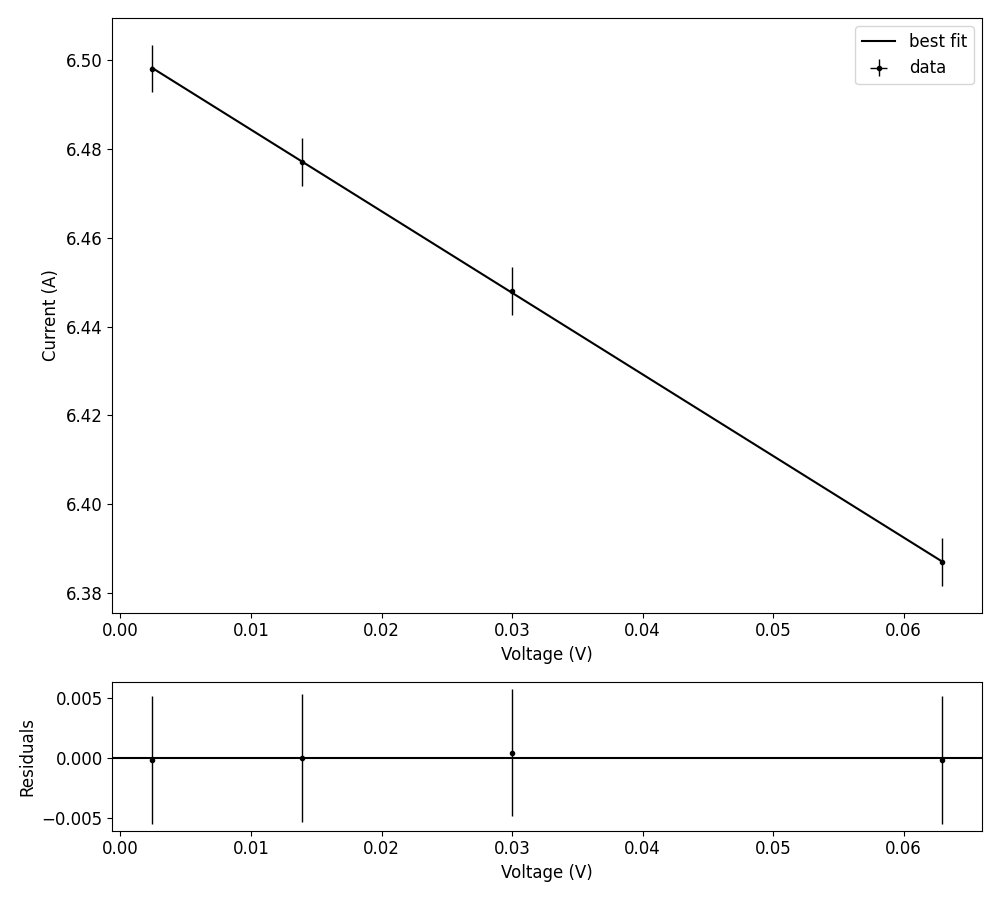
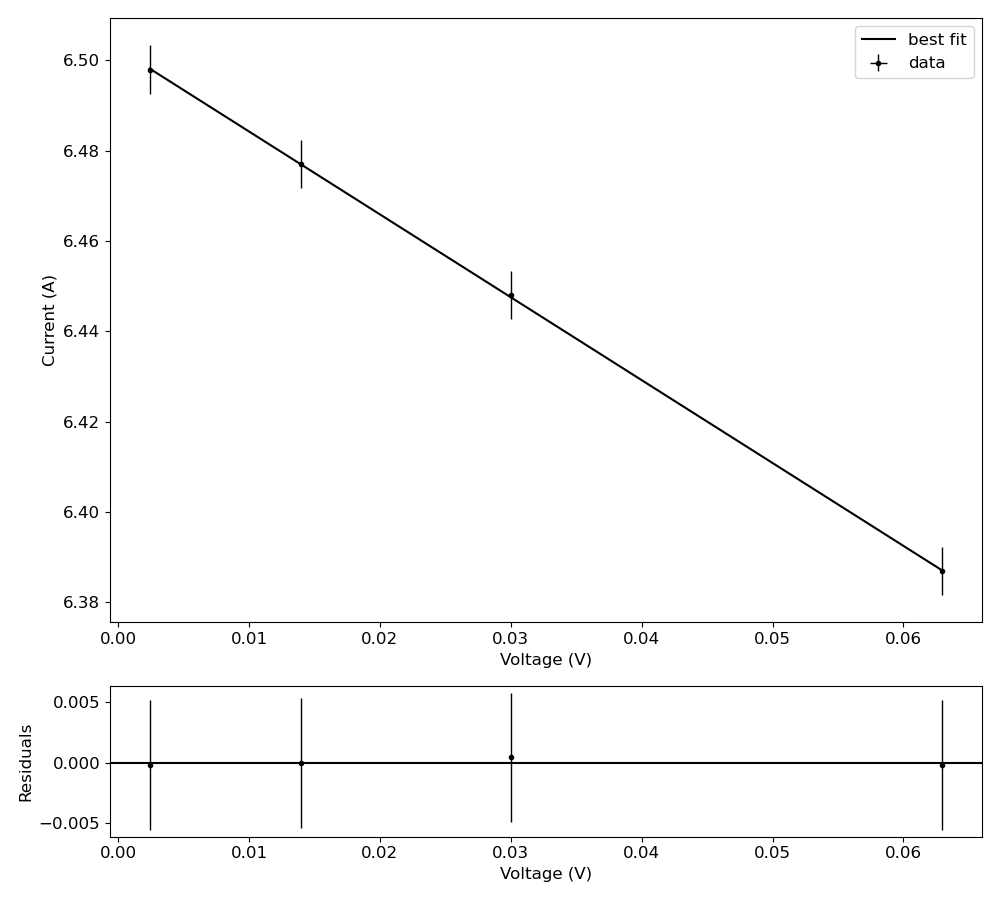
chi^2

diff --git a/lab1-resistance.py b/lab1-resistance.py
@@ -92,6 +92,8 @@ m_fit2, b_fit2 = -1.835005967853445, 6.502628691816137
 v1_pred = linear(i1, m_fit1, b_fit1)
 v2_pred = linear(i2, m_fit2, b_fit2)
 
+chi21 = tl.chi_squared(v1, v1_pred, verr1)
+chi22 = tl.chi_squared(v2, v2_pred, verr2)
 
 rmse_value1 = rmse(v1, v1_pred)
 rmse_value2 = rmse(v2, v2_pred)
@@ -99,6 +101,8 @@ rmse_value2 = rmse(v2, v2_pred)
 
 print(f"RMSE for first dataset: {rmse_value1}")
 print(f"RMSE for second dataset: {rmse_value2}")
+print(f"Chi squared for first dataset: {chi21}")
+print(f"Chi squared for second dataset: {chi22}")
 
 
 
